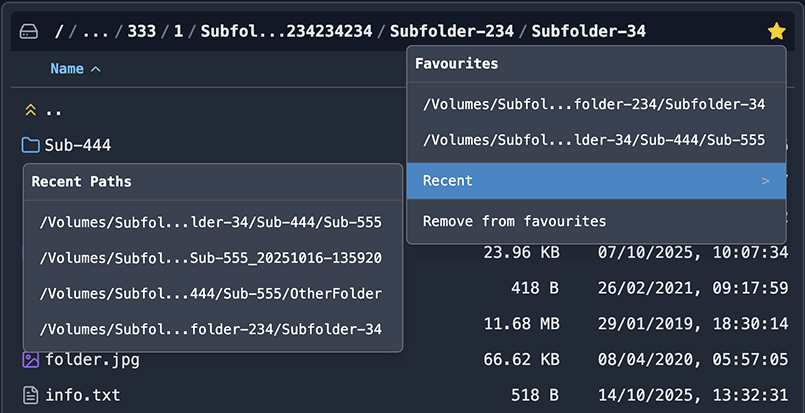
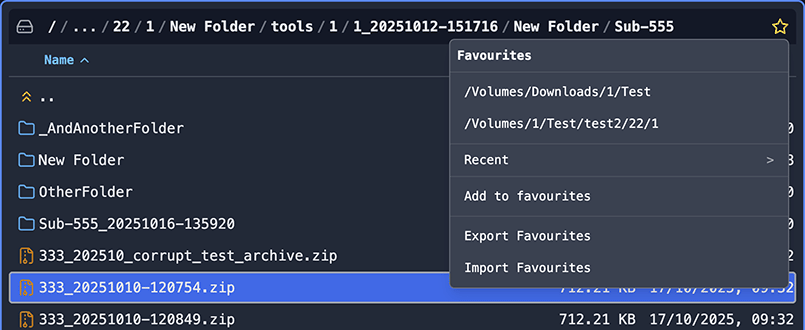
Adding app Export/Import Settings feature; Export Settings backs up all application settings to a JSON file, including:     - List of Favourites     - Current Left and Right Panel Paths     - Column Widths in Both Panels     - Auto Load Lyrics preference     - All Multi-Rename saved Combinations

diff --git a/packages/client/src/components/modals/HelpModal.jsx b/packages/client/src/components/modals/HelpModal.jsx
@@ -24,6 +24,8 @@ import electronScreenshot from "../../../screenshots/electron.png";
 import searchScreenshot from "../../../screenshots/search.png";
 import fmScreenshot from "../../../screenshots/fm.png";
 import multiRenameScreenshot from "../../../screenshots/multi-rename.png";
+import selectMenuScreenshot from "../../../screenshots/select-menu.png";
+import commandsMenuScreenshot from "../../../screenshots/commands-menu.png";
 
 const HelpSection = ({ title, id, children }) => (
   <section id={id} className="mb-8">
@@ -856,6 +858,19 @@ const HelpModal = ({ isVisible, onClose }) => {
               remembered across sessions. There is also a submenu there with
               recently visited paths, these are session based.
             </p>
+            <ul className="list-disc list-inside space-y-2 pl-4 mt-2">
+              <li>
+                <strong>Export Favourites:</strong> Export your list of
+                favourite paths to a JSON file for backup or sharing. The file
+                is automatically named with a timestamp (e.g.,{" "}
+                <code>20250124-103000-favourites-backup.json</code>).
+              </li>
+              <li>
+                <strong>Import Favourites:</strong> Import a previously exported
+                favourites list from a JSON file. This replaces your current
+                favourites with the imported ones.
+              </li>
+            </ul>
             <img
               src={favouritesMenuScreenshot}
               alt="Favourites Menu Screenshot"
@@ -876,24 +891,59 @@ const HelpModal = ({ isVisible, onClose }) => {
                 <strong>Copy & Move (in a submenu)</strong>,{" "}
                 <strong>Copy Paths to clipboard (in a submenu)</strong>,{" "}
                 <strong>Copy Paths and download (in a submenu)</strong>, Rename,
-                Delete, Calculate Size, and Refresh. Many of these actions have
-                corresponding function key shortcuts.
+                Delete, Calculate Size, and Export/Import Settings. Many of
+                these actions have corresponding function key shortcuts.
+                <ul className="list-disc list-inside space-y-2 pl-4">
+                  <li>
+                    <strong>Export Settings:</strong> Backs up all application
+                    settings to a JSON file, including:
+                    <ul className="list-disc list-inside space-y-1 pl-6 mt-1">
+                      <li>List of Favourites</li>
+                      <li>Current Left and Right Panel Paths</li>
+                      <li>Column Widths in Both Panels</li>
+                      <li>Auto Load Lyrics preference</li>
+                      <li>All Multi-Rename saved Combinations</li>
+                    </ul>
+                    The file is automatically named with a timestamp (e.g.,{" "}
+                    <code>20250124-103000-settings-backup.json</code>).
+                  </li>
+                  <li>
+                    <strong>Import Settings:</strong> Restores all application
+                    settings from a previously exported settings file. The
+                    application will reload after import to apply all settings.
+                  </li>
+                </ul>
+                <img
+                  src={fileMenuScreenshot}
+                  alt="File Menu Screenshot"
+                  className="w-3/4 mx-auto rounded-lg shadow-lg"
+                />
               </li>
               <li>
-                <strong>Select Menu:</strong> Offers various ways to manage
-                selections, including Select All, Unselect All, Invert
+                <strong>Select & Filter Menu:</strong> Offers various ways to
+                manage selections, including Select All, Unselect All, Invert
                 Selection, Quick Select, Quick Unselect, Quick Filter, and
                 several targeted commands such as Select Files only / Select
                 Folders only / Select Zip Files only, and their corresponding
                 Unselect variants. The menu also provides Quick Filter variants
                 for files/folders/zip files and a Reset Quick Filter action.
+                <img
+                  src={selectMenuScreenshot}
+                  alt="Select Menu Screenshot"
+                  className="w-3/4 mx-auto rounded-lg shadow-lg"
+                />
+              </li>
+              <li>
+                <strong>Commands Menu:</strong> Contains Search, Copy Paths to
+                Clipboard, Copy Paths and Download, Terminal, Refresh and Swap
+                panels.
+                <img
+                  src={commandsMenuScreenshot}
+                  alt="Commands Menu Screenshot"
+                  className="w-3/4 mx-auto rounded-lg shadow-lg"
+                />
               </li>
             </ul>
-            <img
-              src={fileMenuScreenshot}
-              alt="File Menu Screenshot"
-              className="w-3/4 mx-auto rounded-lg shadow-lg"
-            />
           </HelpSection>
 
           <HelpSection id="search" title="Search">

diff --git a/packages/client/src/App.jsx b/packages/client/src/App.jsx
@@ -353,6 +353,70 @@ export default function App() {
 
   const handleMenuRefreshOtherPanel = () => handleRefreshPanel(otherPanelId);
 
+  const handleExportSettings = async () => {
+    try {
+      const { exportSettings } = await import("./lib/api");
+      const config = await exportSettings();
+      
+      // Create filename with timestamp
+      const now = new Date();
+      const year = now.getFullYear();
+      const month = String(now.getMonth() + 1).padStart(2, '0');
+      const day = String(now.getDate()).padStart(2, '0');
+      const hours = String(now.getHours()).padStart(2, '0');
+      const minutes = String(now.getMinutes()).padStart(2, '0');
+      const seconds = String(now.getSeconds()).padStart(2, '0');
+      
+      const filename = `${year}${month}${day}-${hours}${minutes}${seconds}-settings-backup.json`;
+      
+      // Create and download the file
+      const dataStr = JSON.stringify(config, null, 2);
+      const dataBlob = new Blob([dataStr], { type: 'application/json' });
+      const url = URL.createObjectURL(dataBlob);
+      
+      const link = document.createElement('a');
+      link.href = url;
+      link.download = filename;
+      document.body.appendChild(link);
+      link.click();
+      document.body.removeChild(link);
+      URL.revokeObjectURL(url);
+    } catch (error) {
+      setError(`Failed to export settings: ${error.message}`);
+    }
+  };
+
+  const handleImportSettings = async () => {
+    try {
+      // Create a file input element
+      const fileInput = document.createElement('input');
+      fileInput.type = 'file';
+      fileInput.accept = '.json';
+      
+      fileInput.onchange = async (event) => {
+        const file = event.target.files?.[0];
+        if (!file) return;
+
+        try {
+          const text = await file.text();
+          const importedConfig = JSON.parse(text);
+          
+          const { importSettings } = await import("./lib/api");
+          await importSettings(importedConfig);
+          
+          // Reload the page to apply all imported settings
+          window.location.reload();
+        } catch (error) {
+          setError(`Failed to import settings: ${error.message}`);
+        }
+      };
+      
+      fileInput.click();
+    } catch (error) {
+      setError(`Failed to import settings: ${error.message}`);
+    }
+  };
+
   // Create a closure for the top menu's Quick Filter using the activePanel ID.
   const handleMenuQuickFilter = () => handleStartFilter(activePanel);
 
@@ -516,6 +580,8 @@ export default function App() {
           onNewFile={handleStartNewFile}
           copyAbsolutePaths={copyAbsolutePaths}
           copyRelativePaths={copyRelativePaths}
+          onExportSettings={handleExportSettings}
+          onImportSettings={handleImportSettings}
         />
       </header>
       <ErrorModal message={error} onClose={() => setError(null)} />

diff --git a/packages/server/routes/configRoutes.js b/packages/server/routes/configRoutes.js
@@ -147,4 +147,49 @@ router.delete("/config/multi-rename-combos", async (req, res) => {
   }
 });
 
+// Export full settings
+router.get("/config/export", async (req, res) => {
+  try {
+    const config = await readConfig();
+    res.json(config);
+  } catch (error) {
+    console.error("[config] Failed to export settings:", error);
+    res.status(500).json({ message: "Failed to export settings." });
+  }
+});
+
+// Import full settings
+router.post("/config/import", async (req, res) => {
+  const importedConfig = req.body;
+  
+  if (!importedConfig || typeof importedConfig !== "object") {
+    return res.status(400).json({ message: "Valid config object is required." });
+  }
+  
+  try {
+    // Validate that the imported config has the expected structure
+    const validatedConfig = {
+      favourites: Array.isArray(importedConfig.favourites) ? importedConfig.favourites : [],
+      paths: importedConfig.paths || { left: "", right: "" },
+      columnWidths: importedConfig.columnWidths || {
+        left: { size: 96, modified: 160 },
+        right: { size: 96, modified: 160 },
+      },
+      autoLoadLyrics: typeof importedConfig.autoLoadLyrics === "boolean" ? importedConfig.autoLoadLyrics : false,
+      multiRenameCombos: Array.isArray(importedConfig.multiRenameCombos) ? importedConfig.multiRenameCombos : [],
+    };
+    
+    // Write the validated config, bypassing protection since this is an intentional full replacement
+    await writeConfig(validatedConfig, { bypassProtection: true });
+    
+    res.status(200).json({ 
+      message: "Settings imported successfully.",
+      config: validatedConfig
+    });
+  } catch (error) {
+    console.error("[config] Failed to import settings:", error);
+    res.status(500).json({ message: "Failed to import settings." });
+  }
+});
+
 export default router;

diff --git a/packages/client/src/components/ui/AppMenu.jsx b/packages/client/src/components/ui/AppMenu.jsx
@@ -43,8 +43,6 @@ const FileMenu = ({ ...props }) => {
     canDuplicate,
     onCalculateSize,
     onSetOtherPanelPath,
-    onRefreshPanel,
-    onRefreshBothPanels,
     onCompressInActivePanel,
     onCompressToOtherPanel,
     onDecompressInActivePanel,
@@ -52,7 +50,6 @@ const FileMenu = ({ ...props }) => {
     onDecompressInSubfolderInActivePanel,
     onDecompressInSubfolderToOtherPanel,
     onTestArchive,
-    onSwapPanels,
     canCopyToOtherPanel,
     canMoveToOtherPanel,
     canRename,
@@ -75,9 +72,9 @@ const FileMenu = ({ ...props }) => {
     onNewFolder,
     onNewFile,
     activePanel,
-    copyAbsolutePaths,
-    copyRelativePaths,
     selectedItemsDetails,
+    onExportSettings,
+    onImportSettings,
   } = props;
 
   const [isCopyMoveSubmenuOpen, setIsCopyMoveSubmenuOpen] = useState(false);
@@ -368,6 +365,23 @@ const FileMenu = ({ ...props }) => {
             />
           </>
         )}
+        <div className={separatorClassName} />
+        <div
+          title="Export the list of Favourites, Current Left and Right Panel Paths, Column Widths in Both Panels, Auto Load Lyrics preference, and all Multi-Rename saved Combinations"
+        >
+          <MenuItem
+            label="Export Settings"
+            onClick={() => handleItemClick(onExportSettings)}
+          />
+        </div>
+        <div
+          title="Import and restore the list of Favourites, Current Left and Right Panel Paths, Column Widths in Both Panels, Auto Load Lyrics preference, and all Multi-Rename saved Combinations"
+        >
+          <MenuItem
+            label="Import Settings"
+            onClick={() => handleItemClick(onImportSettings)}
+          />
+        </div>
         <div className={separatorClassName} />
         <MenuItem
           label="Exit"

diff --git a/packages/client/src/lib/api.js b/packages/client/src/lib/api.js
@@ -424,6 +424,21 @@ const cancelZipOperation = async (jobId) => {
   return response.json();
 };
 
+const exportSettings = async () => {
+  const response = await fetch("/api/config/export");
+  if (!response.ok) throw new Error("Could not export settings.");
+  return response.json();
+};
+
+const importSettings = async (config) => {
+  const response = await post(
+    "/api/config/import",
+    config,
+    "Could not import settings."
+  );
+  return response.json();
+};
+
 const startDuplicateItems = async (items, isZipDuplicate = false) => {
   const response = await post(
     "/api/duplicate",
@@ -485,4 +500,6 @@ export {
   fetchFileInfo,
   cancelZipOperation,
   exitApp,
+  exportSettings,
+  importSettings,
 };

diff --git a/README.md b/README.md
@@ -435,31 +435,43 @@ Displays the current directory path with clickable "breadcrumbs" for easy naviga
 ### Favourites
 The star icon next to the path bar allows you to manage your favourite paths. Add the current path or select a previously saved favourite path. Favourites are remembered across sessions. There is also a submenu there with recently visited paths, these are session based.
 
-  ![Favourites Menu Screenshot](packages/client/screenshots/favourites-menu.png)
+  - **Export Favourites**: Export your list of favourite paths to a JSON file for backup or sharing. The file is automatically named with a timestamp (e.g., `20250124-103000-favourites-backup.json`).
+  
+  - **Import Favourites**: Import a previously exported favourites list from a JSON file. This replaces your current favourites with the imported ones.
 
+  ![Favourites Menu Screenshot](packages/client/screenshots/favourites-menu.png)
 
 
 ### Top Menus
 "File", "Select & Filter", and "Commands" menu provide access to comprehensive file management, selection, filter and addtional tools including searching for files and folders.  
 
-  ![File Menu Screenshot](packages/client/screenshots/file-menu.png)
-
-
 
 ### File Menu
-Contains actions related to file operations such as **New (in a submenu)**, **Copy & Move (in a submenu)**, Rename, Delete, Compress, Calculate Size, and Refresh. Many of these actions have corresponding function key shortcuts.
+Contains actions related to file operations such as **New (in a submenu)**, **Copy & Move (in a submenu)**, Rename, Delete, Compress, Calculate Size, and Export/Import Settings. Many of these actions have corresponding function key shortcuts.
+
+- **Export Settings**: Backs up all application settings to a JSON file, including:
+    - List of Favourites
+    - Current Left and Right Panel Paths
+    - Column Widths in Both Panels
+    - Auto Load Lyrics preference
+    - All Multi-Rename saved Combinations
+    
+    The file is automatically named with a timestamp (e.g., `20250124-103000-settings-backup.json`).
+  
+  - **Import Settings**: Restores all application settings from a previously exported settings file. The application will reload after import to apply all settings.
 
 
+![File Menu Screenshot](packages/client/screenshots/file-menu.png)
 
 ### Select and Filter Menu
 Offers various ways to manage selections, including Select All, Unselect All, Invert Selection, Quick Select, Quick Unselect, and Quick Filter.
 
-
+  ![Select and Filter Menu Screenshot](packages/client/screenshots/select-menu.png)
 
 ### Commands Menu
 Contains Search, Copy Paths to Clipboard, Copy Paths and Download, Terminal, Refresh and Swap panels.
 
-
+  ![Commands Menu Screenshot](packages/client/screenshots/commands-menu.png)
 
 ### Function Key Actions
 
